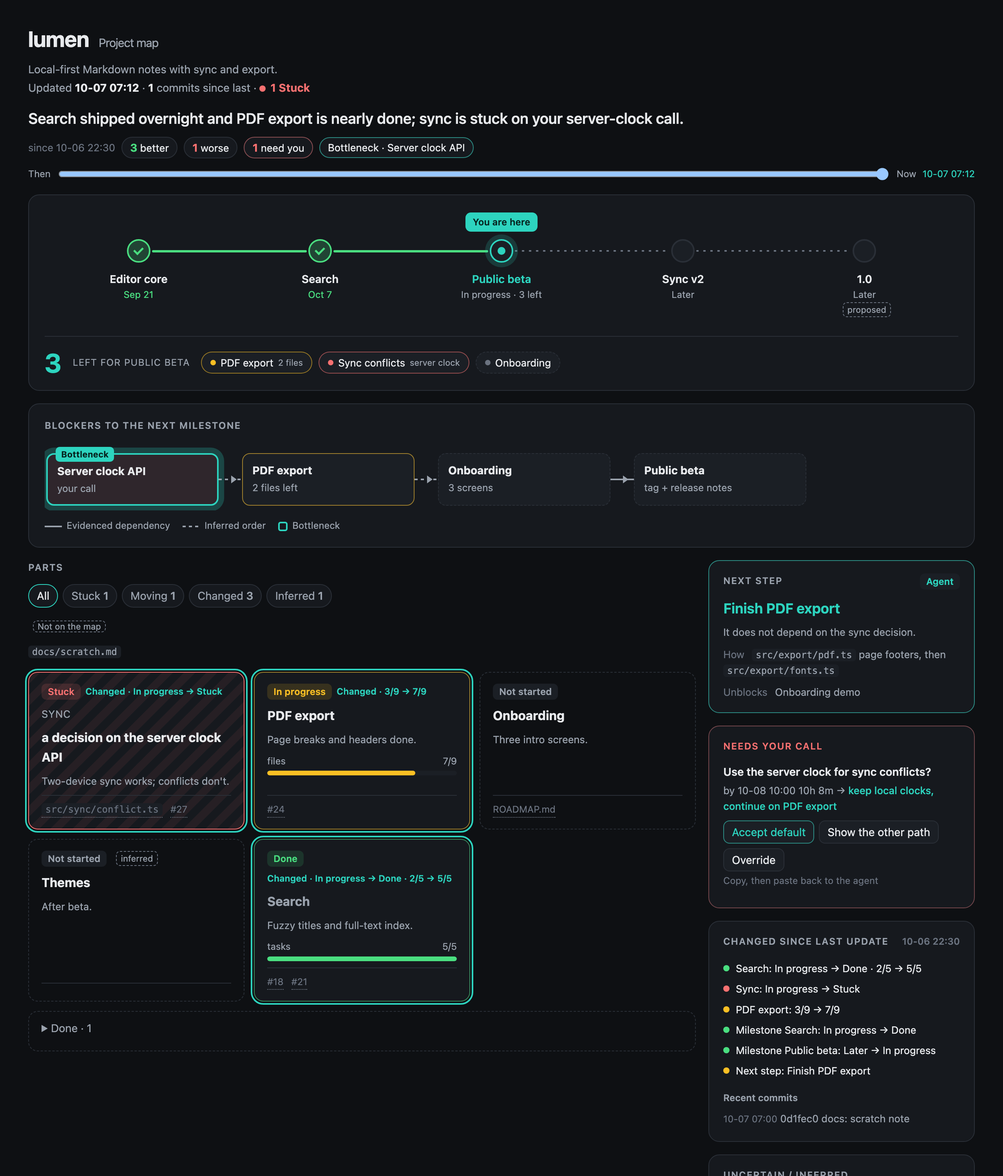
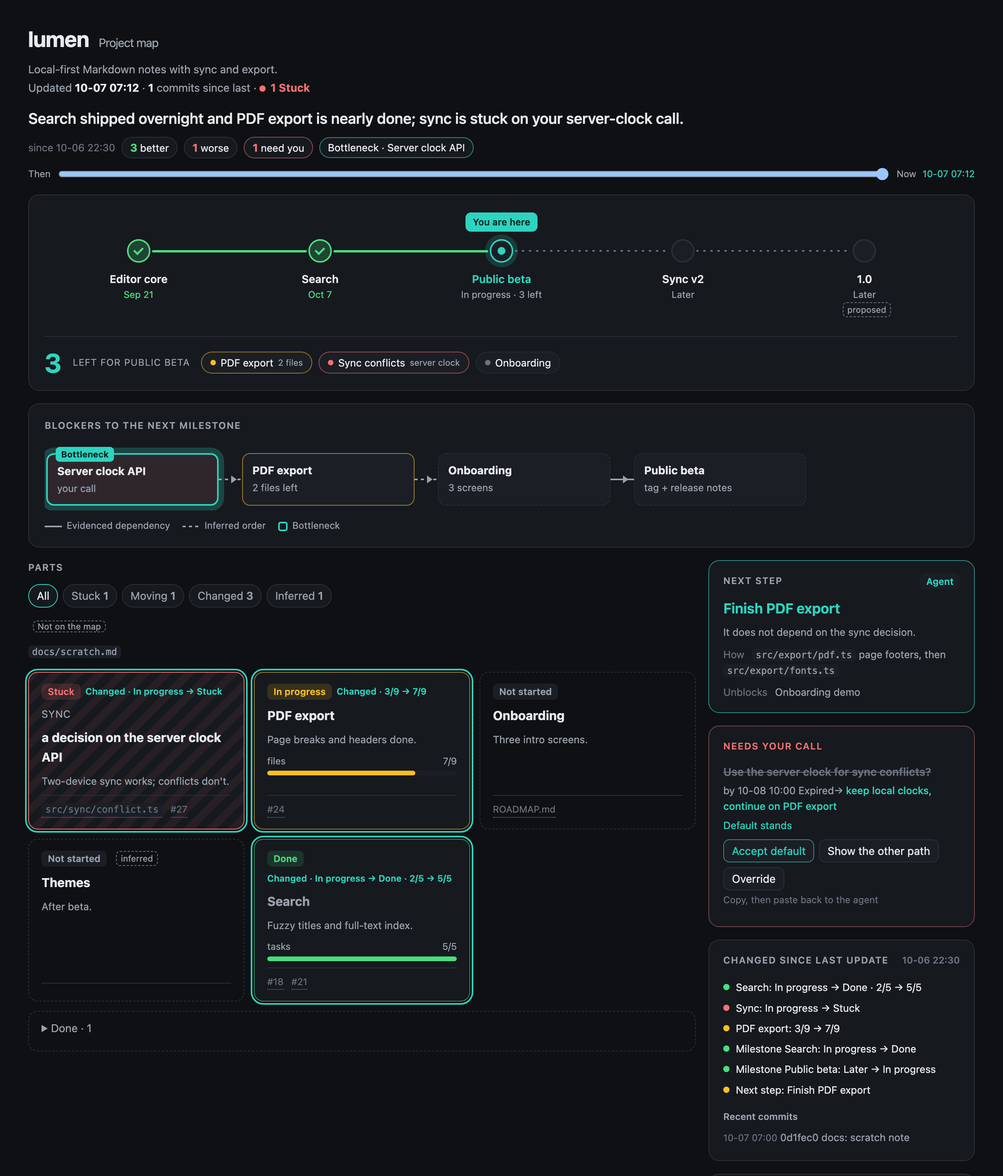
Page on phones: current milestone centered in the track, pin bar as one full-width row
Checked at 375px: no horizontal page overflow, all 38 interactive elements
reachable by keyboard, Enter lights linked parts, filters work, light
theme readable.

Changed region(s): [[0.7188, 0.651, 0.9688, 1.0]]

diff --git a/docs/demo/index.html b/docs/demo/index.html
@@ -95,6 +95,7 @@ aside .card{padding:16px 18px}
 .hl-you b{color:var(--stuck)} .hl-bn{border-color:color-mix(in srgb,var(--accent) 55%,var(--line))} .hl-since{color:var(--dim)}
 .owner{float:right;text-transform:none;letter-spacing:0;font-size:12px;padding:1px 8px;border-radius:6px;background:var(--card2)}
 .o-user{color:var(--stuck)} .o-agent{color:var(--accent)}
+.decide li.answered{opacity:.75} .decide li.answered .def{color:var(--done)}
 .open-left{font-size:13px} .open-left span{color:var(--prog);font-weight:600;margin-right:4px}
 .next .how,.next .unl{margin:8px 0 0;font-size:13px} .next .how span,.next .unl span{color:var(--dim);margin-right:6px}
 .next{border-color:color-mix(in srgb,var(--accent) 55%,var(--line))} .next .nt{font-size:18px;font-weight:650;margin:0 0 6px;color:var(--accent)}
@@ -117,6 +118,7 @@ th{color:var(--mut);font-weight:600}
 display:flex;flex-wrap:wrap;gap:6px 10px;align-items:baseline;background:var(--card);border:1px solid var(--accent);
 border-radius:999px;padding:6px 14px;font-size:13px;box-shadow:0 8px 28px color-mix(in srgb,#000 35%,transparent)}
 .pin[hidden]{display:none} .pin b{color:var(--accent)}
+.pin > * + *::before{content:"·";color:var(--dim);margin-right:10px}
 .scrub{display:flex;align-items:center;gap:8px;margin:-8px 0 16px;color:var(--mut);font-size:12px}
 .scrub input{flex:1} #scrubcap{color:var(--accent)}
 .filters{display:flex;flex-wrap:wrap;gap:6px;margin:0 0 12px}
@@ -171,11 +173,13 @@ body[data-filter=in_progress] .pill:not(.p-in_progress){display:none}
  .a-inferred span{background:repeating-linear-gradient(180deg,var(--mut) 0 4px,transparent 4px 8px)}
  .arrow::after{right:auto;bottom:0;border:5px solid transparent;border-top:7px solid var(--mut)}
  .why-pop{position:static;width:auto}
- .ms{flex-basis:112px} .pin{border-radius:14px}}
+ .ms{flex-basis:112px}
+ .pin{left:12px;right:12px;transform:none;max-width:none;flex-wrap:nowrap;overflow-x:auto;white-space:nowrap;
+   border-radius:12px;scrollbar-width:none}}
 </style>
 </head>
-<body><div class="wrap"><div class="pin" id="pin" hidden><b>You are here</b> · <span>Server clock API</span> · <span>Finish PDF export</span> · <span>1 expiring</span> · <span>1 Not on the map</span></div><header><h1>lumen<span class="sub">Project map</span></h1><p class="summary">Local-first Markdown notes with sync and export.</p><p class="meta">Updated <b>10-07 07:12</b> · <b>1</b> commits since last · <span class="stuck-dot"></span><b class="c-stuck">1 Stuck</b></p></header><section class="hero"><p class=hl-text>Search shipped overnight and PDF export is nearly done; sync is stuck on your server-clock call.</p><div class="hl-row"><span class="hl-since">since 10-06 22:30</span><span class="hl hl-better"><b>3</b> better</span><span class="hl hl-worse"><b>1</b> worse</span><span class="hl hl-you"><b>1</b> need you</span><span class="hl hl-bn">Bottleneck · Server clock API</span></div></section><div class="scrub"><span>Then</span><input type="range" id="scrub" min="0" max="1" value="1" aria-label="Changed since last update"><span>Now</span><span id="scrubcap"></span></div><section class="card track"><ol class="ms-list"><li class="ms ms-done" data-name="Editor core" data-now="done"><span class="dot"></span><span class="seg solid"></span><span class="ms-name">Editor core</span><span class="ms-note">Sep 21</span></li><li class="ms ms-done" data-name="Search" data-now="done"><span class="dot"></span><span class="seg solid"></span><span class="ms-name">Search</span><span class="ms-note">Oct 7</span></li><li class="ms ms-current" data-name="Public beta" data-now="current" id=here><span class="here">You are here</span><span class="dot"></span><span class="seg dotted"></span><span class="ms-name">Public beta</span><span class="ms-note">In progress · 3 left</span></li><li class="ms ms-future" data-name="Sync v2" data-now="future"><span class="dot"></span><span class="seg dotted"></span><span class="ms-name">Sync v2</span><span class="ms-note">Later</span></li><li class="ms ms-future" data-name="1.0" data-now="future"><span class="dot"></span><span class="ms-name">1.0</span><span class="ms-note">Later</span><span class="tag">proposed</span></li></ol><div class="left"><span class="big">3</span><span class="cap">Left for Public beta </span><div class="pills"><span class="pill p-in_progress linkable" data-link="export" role="button" tabindex="0"><i></i>PDF export<em>2 files</em></span><span class="pill p-stuck linkable" data-link="sync" role="button" tabindex="0"><i></i>Sync conflicts<em>server clock</em></span><span class="pill p-not_started linkable" data-link="onboarding" role="button" tabindex="0"><i></i>Onboarding</span></div></div></section><section class="card"><h2>Blockers to the next milestone</h2><div class="chain chain-default"><div class="node n-stuck is-bn linkable" data-link="sync" role="button" tabindex="0"><span class="bn">Bottleneck</span><b>Server clock API</b><span>your call</span></div><div class="arrow a-inferred" title="default keeps local clocks and continues PDF export"><p class="why-pop">default keeps local clocks and continues PDF export</p><span></span></div><div class="node n-in_progress linkable fork-only" data-link="export" role="button" tabindex="0"><b>PDF export</b><span>2 files left</span></div><div class="arrow a-inferred" title="onboarding demo exports a PDF"><p class="why-pop">onboarding demo exports a PDF</p><span></span></div><div class="node n-not_started linkable" data-link="onboarding" role="button" tabindex="0"><b>Onboarding</b><span>3 screens</span></div><div class="arrow a-evidence" title="ROADMAP.md: beta requires onboarding"><p class="why-pop">ROADMAP.md: beta requires onboarding</p><span></span></div><div class="node n-not_started linkable" role="button" tabindex="0"><b>Public beta</b><span>tag + release notes</span></div></div><p class="fork-label">If you override: block on the server clock first</p><div class="chain chain-alt"><div class="node n-stuck is-bn linkable fork-shared" data-link="sync" role="button" tabindex="0"><span class="bn">Bottleneck</span><b>Server clock API</b><span>your call</span></div><div class="arrow a-inferred" title="only if you choose to block on the server clock"><p class="why-pop">only if you choose to block on the server clock</p><span></span></div><div class="node n-not_started linkable fork-only" data-link="sync" role="button" tabindex="0"><b>Implement server clock</b><span>only if you block on it</span></div><div class="arrow a-evidence" title="`src/sync/conflict.ts` TODO: last-writer-wins needs a trusted server timestamp"><p class="why-pop"><code>src/sync/conflict.ts</code> TODO: last-writer-wins needs a trusted server timestamp</p><span></span></div><div class="node n-stuck linkable fork-only" data-link="sync" role="button" tabindex="0"><b>Sync conflicts</b><span>resolver waits on clock</span></div><div class="arrow a-inferred" title="onboarding waits until sync conflicts are decided"><p class="why-pop">onboarding waits until sync conflicts are decided</p><span></span></div><div class="node n-not_started linkable fork-shared" data-link="onboarding" role="button" tabindex="0"><b>Onboarding</b><span>3 screens</span></div><div class="arrow a-evidence" title="ROADMAP.md: beta requires onboarding"><p class="why-pop">ROADMAP.md: beta requires onboarding</p><span></span></div><div class="node n-not_started linkable fork-shared" role="button" tabindex="0"><b>Public beta</b><span>tag + release notes</span></div></div><div class="legend"><span><i class="lg-e"></i>Evidenced dependency</span><span><i class="lg-i"></i>Inferred order</span><span><i class="lg-b"></i>Bottleneck</span></div></section><div class="grid"><div class="main"><section><div class="sh"><h2>Parts</h2></div><div class="filters" role="toolbar"><button type="button" data-filter="all" aria-pressed="true">All</button><button type="button" data-filter="stuck" aria-pressed="false">Stuck <b>1</b></button><button type="button" data-filter="in_progress" aria-pressed="false">Moving <b>1</b></button><button type="button" data-filter="changed" aria-pressed="false">Changed <b>3</b></button><button type="button" data-filter="inferred" aria-pressed="false">Inferred <b>1</b></button></div><div class="unmap"><span class="tag">Not on the map</span><ul class="plain"><li><code>docs/scratch.md</code></li></ul></div><div class="parts"><article class="part pt-stuck changed linkable" data-link="sync" data-status="stuck" data-now="stuck" role="button" tabindex="0"><div class="ph"><span class="badge s-stuck">Stuck</span><span class="chg">Changed · In progress → Stuck</span></div><p class="eyebrow">Sync</p><h3>a decision on the server clock API</h3><p>Two-device sync works; conflicts don&#x27;t.</p><footer><button type="button" class="ev" data-kind="file" data-ref="src/sync/conflict.ts"><code>src/sync/conflict.ts</code></button><button type="button" class="ev" data-kind="issue" data-ref="27">#27</button></footer></article><article class="part pt-in_progress changed linkable" data-link="export" data-status="in_progress" data-now="in_progress" role="button" tabindex="0"><div class="ph"><span class="badge s-in_progress">In progress</span><span class="chg">Changed · 3/9 → 7/9</span></div><h3>PDF export</h3><p>Page breaks and headers done.</p><div class="prog"><div class="pl"><span>files</span><span>7/9</span></div><div class="bar"><i style="width:78%"></i></div></div><footer><button type="button" class="ev" data-kind="issue" data-ref="24">#24</button></footer></article><article class="part pt-not_started linkable" data-link="onboarding" data-status="not_started" data-now="not_started" role="button" tabindex="0"><div class="ph"><span class="badge s-not_started">Not started</span></div><h3>Onboarding</h3><p>Three intro screens.</p><footer><button type="button" class="ev" data-kind="file" data-ref="ROADMAP.md">ROADMAP.md</button></footer></article><article class="part pt-not_started linkable" data-link="themes" data-status="not_started" data-now="not_started" data-inferred role="button" tabindex="0"><div class="ph"><span class="badge s-not_started">Not started</span><span class="tag">inferred</span></div><h3>Themes</h3><p>After beta.</p><footer></footer></article><article class="part pt-done changed linkable" data-link="search" data-status="done" data-now="done" role="button" tabindex="0"><div class="ph"><span class="badge s-done">Done</span><span class="chg">Changed · In progress → Done · 2/5 → 5/5</span></div><h3>Search</h3><p>Fuzzy titles and full-text index.</p><div class="prog"><div class="pl"><span>tasks</span><span>5/5</span></div><div class="bar"><i style="width:100%"></i></div></div><footer><button type="button" class="ev" data-kind="issue" data-ref="18">#18</button><button type="button" class="ev" data-kind="issue" data-ref="21">#21</button></footer></article></div><details class="done-row"><summary>Done · 1</summary><div class="done-names"><button type="button" class="done-name" data-open="editor">Editor</button></div><div class="parts"><article class="part pt-done linkable" data-link="editor" data-status="done" data-now="done" role="button" tabindex="0"><div class="ph"><span class="badge s-done">Done</span></div><h3>Editor</h3><p>Markdown editing, tables, live preview.</p><footer><button type="button" class="ev" data-kind="file" data-ref="src/editor/"><code>src/editor/</code></button><button type="button" class="ev" data-kind="issue" data-ref="12">#12</button></footer></article></div></details></section></div><aside><section class="card next"><h2>Next step<span class="owner o-agent">Agent</span></h2><p class="nt">Finish PDF export</p><p>It does not depend on the sync decision.</p><p class="how"><span>How</span> <code>src/export/pdf.ts</code> page footers, then <code>src/export/fonts.ts</code></p><p class="unl"><span>Unblocks</span> Onboarding demo</p></section><section class="card decide"><h2>Needs your call</h2><ul><li data-decision="clock"><p class="q">Use the server clock for sync conflicts?</p><p class="d">by <time data-deadline="2026-10-08T10:00:00+08:00">10-08 10:00</time> <span class="count"></span>→ <b class="def">keep local clocks, continue on PDF export</b></p><p class="taken">Default stands</p><div class="acts"><button type="button" class="act accept" data-copy="Decision: keep local clocks, continue on PDF export&#10;Question: Use the server clock for sync conflicts?">Accept default</button><button type="button" class="act altpath" data-fork="clock" data-option="1" data-show="Show the other path" data-hide="Hide the other path">Show the other path</button><button type="button" class="act override">Override</button><span class="copied">Copied</span></div><form class="override-form" hidden><input type="text" maxlength="240" aria-label="Override"><button type="submit">Copy</button></form><p class="hint">Copy, then paste back to the agent</p></li></ul></section><section class="card changes"><h2>Changed since last update<span class="since">10-06 22:30</span></h2><ul><li class="linkable" data-link="search" role="button" tabindex="0"><i class="dot-done"></i>Search: In progress → Done · 2/5 → 5/5</li><li class="linkable" data-link="sync" role="button" tabindex="0"><i class="dot-stuck"></i>Sync: In progress → Stuck</li><li class="linkable" data-link="export" role="button" tabindex="0"><i class="dot-in_progress"></i>PDF export: 3/9 → 7/9</li><li class=""><i class="dot-done"></i>Milestone Search: In progress → Done</li><li class=""><i class="dot-done"></i>Milestone Public beta: Later → In progress</li><li class=""><i class="dot-in_progress"></i>Next step: Finish PDF export</li></ul><h3>Recent commits</h3><ul class="commits"><li><span class="t">10-07 07:00</span> 0d1fec0 docs: scratch note</li></ul></section><section class="card"><h2>Uncertain / inferred</h2><ul class="plain"><li>PDF export tested on A4 only.</li></ul></section></aside></div><section class="details"><h2>Details</h2><details><summary><b>Open issues</b><span></span></summary><ul class="plain"><li>#27 sync conflict on simultaneous edits</li><li>#29 PDF footer overlaps</li></ul></details></section><footer class="foot"><p>Sources：README, ROADMAP.md, git log</p></footer><div id="peek" hidden role="dialog"><p id="peek-text"></p><a id="peek-link" target="_blank" rel="noopener" hidden></a></div></div>
-<script type="application/json" id="yah">{"slug": null, "web": null, "peek": {"issues": {}, "commits": {"0d1fec0": "docs: scratch note"}, "prs": {}, "files": {"docs/scratch.md": "docs: scratch note"}}, "frames": [{"t": "2026-10-06T22:30:00+08:00", "label": "10-06 22:30", "parts": {"editor": {"status": "done", "done": null, "total": null}, "search": {"status": "in_progress", "done": 2, "total": 5}, "sync": {"status": "in_progress", "done": null, "total": null}, "export": {"status": "in_progress", "done": 3, "total": 9}, "onboarding": {"status": "not_started", "done": null, "total": null}, "themes": {"status": "not_started", "done": null, "total": null}}, "milestones": [{"name": "Editor core", "status": "done"}, {"name": "Search", "status": "current"}, {"name": "Public beta", "status": "future"}, {"name": "Sync v2", "status": "future"}, {"name": "1.0", "status": "future"}], "changes": []}, {"t": "2026-10-07T07:12:00+08:00", "label": "10-07 07:12", "parts": {"editor": {"status": "done", "done": null, "total": null}, "search": {"status": "done", "done": 5, "total": 5}, "sync": {"status": "stuck", "done": null, "total": null}, "export": {"status": "in_progress", "done": 7, "total": 9}, "onboarding": {"status": "not_started", "done": null, "total": null}, "themes": {"status": "not_started", "done": null, "total": null}}, "milestones": [{"name": "Editor core", "status": "done"}, {"name": "Search", "status": "done"}, {"name": "Public beta", "status": "current"}, {"name": "Sync v2", "status": "future"}, {"name": "1.0", "status": "future"}], "changes": ["Search: In progress → Done · 2/5 → 5/5", "Sync: In progress → Stuck", "PDF export: 3/9 → 7/9", "Milestone Search: In progress → Done", "Milestone Public beta: Later → In progress", "Next step: Finish PDF export"]}], "labels": {"expired": "Expired", "open": "Open on GitHub"}}</script>
+<body><div class="wrap"><div class="pin" id="pin" hidden><b>You are here</b><span>Server clock API</span><span>Finish PDF export</span><span>1 expiring</span><span>1 Not on the map</span></div><header><h1>lumen<span class="sub">Project map</span></h1><p class="summary">Local-first Markdown notes with sync and export.</p><p class="meta">Updated <b>10-07 07:12</b> · <b>1</b> commits since last · <span class="stuck-dot"></span><b class="c-stuck">1 Stuck</b></p></header><section class="hero"><p class=hl-text>Search shipped overnight and PDF export is nearly done; sync is stuck on your server-clock call.</p><div class="hl-row"><span class="hl-since">since 10-06 22:30</span><span class="hl hl-better"><b>3</b> better</span><span class="hl hl-worse"><b>1</b> worse</span><span class="hl hl-you"><b>1</b> need you</span><span class="hl hl-bn">Bottleneck · Server clock API</span></div></section><div class="scrub"><span>Then</span><input type="range" id="scrub" min="0" max="1" value="1" aria-label="Changed since last update"><span>Now</span><span id="scrubcap"></span></div><section class="card track"><ol class="ms-list"><li class="ms ms-done" data-name="Editor core" data-now="done"><span class="dot"></span><span class="seg solid"></span><span class="ms-name">Editor core</span><span class="ms-note">Sep 21</span></li><li class="ms ms-done" data-name="Search" data-now="done"><span class="dot"></span><span class="seg solid"></span><span class="ms-name">Search</span><span class="ms-note">Oct 7</span></li><li class="ms ms-current" data-name="Public beta" data-now="current" id=here><span class="here">You are here</span><span class="dot"></span><span class="seg dotted"></span><span class="ms-name">Public beta</span><span class="ms-note">In progress · 3 left</span></li><li class="ms ms-future" data-name="Sync v2" data-now="future"><span class="dot"></span><span class="seg dotted"></span><span class="ms-name">Sync v2</span><span class="ms-note">Later</span></li><li class="ms ms-future" data-name="1.0" data-now="future"><span class="dot"></span><span class="ms-name">1.0</span><span class="ms-note">Later</span><span class="tag">proposed</span></li></ol><div class="left"><span class="big">3</span><span class="cap">Left for Public beta </span><div class="pills"><span class="pill p-in_progress linkable" data-link="export" role="button" tabindex="0"><i></i>PDF export<em>2 files</em></span><span class="pill p-stuck linkable" data-link="sync" role="button" tabindex="0"><i></i>Sync conflicts<em>server clock</em></span><span class="pill p-not_started linkable" data-link="onboarding" role="button" tabindex="0"><i></i>Onboarding</span></div></div></section><section class="card"><h2>Blockers to the next milestone</h2><div class="chain chain-default"><div class="node n-stuck is-bn linkable" data-link="sync" role="button" tabindex="0"><span class="bn">Bottleneck</span><b>Server clock API</b><span>your call</span></div><div class="arrow a-inferred" title="default keeps local clocks and continues PDF export"><p class="why-pop">default keeps local clocks and continues PDF export</p><span></span></div><div class="node n-in_progress linkable fork-only" data-link="export" role="button" tabindex="0"><b>PDF export</b><span>2 files left</span></div><div class="arrow a-inferred" title="onboarding demo exports a PDF"><p class="why-pop">onboarding demo exports a PDF</p><span></span></div><div class="node n-not_started linkable" data-link="onboarding" role="button" tabindex="0"><b>Onboarding</b><span>3 screens</span></div><div class="arrow a-evidence" title="ROADMAP.md: beta requires onboarding"><p class="why-pop">ROADMAP.md: beta requires onboarding</p><span></span></div><div class="node n-not_started linkable" role="button" tabindex="0"><b>Public beta</b><span>tag + release notes</span></div></div><p class="fork-label">If you override: block on the server clock first</p><div class="chain chain-alt"><div class="node n-stuck is-bn linkable fork-shared" data-link="sync" role="button" tabindex="0"><span class="bn">Bottleneck</span><b>Server clock API</b><span>your call</span></div><div class="arrow a-inferred" title="only if you choose to block on the server clock"><p class="why-pop">only if you choose to block on the server clock</p><span></span></div><div class="node n-not_started linkable fork-only" data-link="sync" role="button" tabindex="0"><b>Implement server clock</b><span>only if you block on it</span></div><div class="arrow a-evidence" title="`src/sync/conflict.ts` TODO: last-writer-wins needs a trusted server timestamp"><p class="why-pop"><code>src/sync/conflict.ts</code> TODO: last-writer-wins needs a trusted server timestamp</p><span></span></div><div class="node n-stuck linkable fork-only" data-link="sync" role="button" tabindex="0"><b>Sync conflicts</b><span>resolver waits on clock</span></div><div class="arrow a-inferred" title="onboarding waits until sync conflicts are decided"><p class="why-pop">onboarding waits until sync conflicts are decided</p><span></span></div><div class="node n-not_started linkable fork-shared" data-link="onboarding" role="button" tabindex="0"><b>Onboarding</b><span>3 screens</span></div><div class="arrow a-evidence" title="ROADMAP.md: beta requires onboarding"><p class="why-pop">ROADMAP.md: beta requires onboarding</p><span></span></div><div class="node n-not_started linkable fork-shared" role="button" tabindex="0"><b>Public beta</b><span>tag + release notes</span></div></div><div class="legend"><span><i class="lg-e"></i>Evidenced dependency</span><span><i class="lg-i"></i>Inferred order</span><span><i class="lg-b"></i>Bottleneck</span></div></section><div class="grid"><div class="main"><section><div class="sh"><h2>Parts</h2></div><div class="filters" role="toolbar"><button type="button" data-filter="all" aria-pressed="true">All</button><button type="button" data-filter="stuck" aria-pressed="false">Stuck <b>1</b></button><button type="button" data-filter="in_progress" aria-pressed="false">Moving <b>1</b></button><button type="button" data-filter="changed" aria-pressed="false">Changed <b>3</b></button><button type="button" data-filter="inferred" aria-pressed="false">Inferred <b>1</b></button></div><div class="unmap"><span class="tag">Not on the map</span><ul class="plain"><li><code>docs/scratch.md</code></li></ul></div><div class="parts"><article class="part pt-stuck changed linkable" data-link="sync" data-status="stuck" data-now="stuck" role="button" tabindex="0"><div class="ph"><span class="badge s-stuck">Stuck</span><span class="chg">Changed · In progress → Stuck</span></div><p class="eyebrow">Sync</p><h3>a decision on the server clock API</h3><p>Two-device sync works; conflicts don&#x27;t.</p><footer><button type="button" class="ev" data-kind="file" data-ref="src/sync/conflict.ts"><code>src/sync/conflict.ts</code></button><button type="button" class="ev" data-kind="issue" data-ref="27">#27</button></footer></article><article class="part pt-in_progress changed linkable" data-link="export" data-status="in_progress" data-now="in_progress" role="button" tabindex="0"><div class="ph"><span class="badge s-in_progress">In progress</span><span class="chg">Changed · 3/9 → 7/9</span></div><h3>PDF export</h3><p>Page breaks and headers done.</p><div class="prog"><div class="pl"><span>files</span><span>7/9</span></div><div class="bar"><i style="width:78%"></i></div></div><footer><button type="button" class="ev" data-kind="issue" data-ref="24">#24</button></footer></article><article class="part pt-not_started linkable" data-link="onboarding" data-status="not_started" data-now="not_started" role="button" tabindex="0"><div class="ph"><span class="badge s-not_started">Not started</span></div><h3>Onboarding</h3><p>Three intro screens.</p><footer><button type="button" class="ev" data-kind="file" data-ref="ROADMAP.md">ROADMAP.md</button></footer></article><article class="part pt-not_started linkable" data-link="themes" data-status="not_started" data-now="not_started" data-inferred role="button" tabindex="0"><div class="ph"><span class="badge s-not_started">Not started</span><span class="tag">inferred</span></div><h3>Themes</h3><p>After beta.</p><footer></footer></article><article class="part pt-done changed linkable" data-link="search" data-status="done" data-now="done" role="button" tabindex="0"><div class="ph"><span class="badge s-done">Done</span><span class="chg">Changed · In progress → Done · 2/5 → 5/5</span></div><h3>Search</h3><p>Fuzzy titles and full-text index.</p><div class="prog"><div class="pl"><span>tasks</span><span>5/5</span></div><div class="bar"><i style="width:100%"></i></div></div><footer><button type="button" class="ev" data-kind="issue" data-ref="18">#18</button><button type="button" class="ev" data-kind="issue" data-ref="21">#21</button></footer></article></div><details class="done-row"><summary>Done · 1</summary><div class="done-names"><button type="button" class="done-name" data-open="editor">Editor</button></div><div class="parts"><article class="part pt-done linkable" data-link="editor" data-status="done" data-now="done" role="button" tabindex="0"><div class="ph"><span class="badge s-done">Done</span></div><h3>Editor</h3><p>Markdown editing, tables, live preview.</p><footer><button type="button" class="ev" data-kind="file" data-ref="src/editor/"><code>src/editor/</code></button><button type="button" class="ev" data-kind="issue" data-ref="12">#12</button></footer></article></div></details></section></div><aside><section class="card next"><h2>Next step<span class="owner o-agent">Agent</span></h2><p class="nt">Finish PDF export</p><p>It does not depend on the sync decision.</p><p class="how"><span>How</span> <code>src/export/pdf.ts</code> page footers, then <code>src/export/fonts.ts</code></p><p class="unl"><span>Unblocks</span> Onboarding demo</p></section><section class="card decide"><h2>Needs your call</h2><ul><li data-decision="clock"><p class="q">Use the server clock for sync conflicts?</p><p class="d">by <time data-deadline="2026-10-08T10:00:00+08:00">10-08 10:00</time> <span class="count"></span>→ <b class="def">keep local clocks, continue on PDF export</b></p><p class="taken">Default stands</p><div class="acts"><button type="button" class="act accept" data-copy="you-are-here decision&#10;Question: Use the server clock for sync conflicts?&#10;Answer: keep local clocks, continue on PDF export&#10;Record it and act on it: python3 /Users/lifcc/Desktop/code/AI/tools/you-are-here/plugins/you-are-here/skills/you-are-here/scripts/pmap.py answer /private/var/folders/3_/987z6jz91l9_t8mpvflf73xm0000gp/T/tmpcg7p2scp/lumen --id clock --answer &quot;keep local clocks, continue on PDF export&quot;">Accept default</button><button type="button" class="act altpath" data-fork="clock" data-option="1" data-show="Show the other path" data-hide="Hide the other path">Show the other path</button><button type="button" class="act override">Override</button><span class="copied">Copied</span></div><form class="override-form" hidden><input type="text" maxlength="240" aria-label="Override"><button type="submit">Copy</button></form><p class="hint">Copy, then paste back to the agent</p></li></ul></section><section class="card changes"><h2>Changed since last update<span class="since">10-06 22:30</span></h2><ul><li class="linkable" data-link="search" role="button" tabindex="0"><i class="dot-done"></i>Search: In progress → Done · 2/5 → 5/5</li><li class="linkable" data-link="sync" role="button" tabindex="0"><i class="dot-stuck"></i>Sync: In progress → Stuck</li><li class="linkable" data-link="export" role="button" tabindex="0"><i class="dot-in_progress"></i>PDF export: 3/9 → 7/9</li><li class=""><i class="dot-done"></i>Milestone Search: In progress → Done</li><li class=""><i class="dot-done"></i>Milestone Public beta: Later → In progress</li><li class=""><i class="dot-in_progress"></i>Next step: Finish PDF export</li></ul><h3>Recent commits</h3><ul class="commits"><li><span class="t">10-07 07:00</span> 0d1fec0 docs: scratch note</li></ul></section><section class="card"><h2>Uncertain / inferred</h2><ul class="plain"><li>PDF export tested on A4 only.</li></ul></section></aside></div><section class="details"><h2>Details</h2><details><summary><b>Open issues</b><span></span></summary><ul class="plain"><li>#27 sync conflict on simultaneous edits</li><li>#29 PDF footer overlaps</li></ul></details></section><footer class="foot"><p>Sources：README, ROADMAP.md, git log</p></footer><div id="peek" hidden role="dialog"><p id="peek-text"></p><a id="peek-link" target="_blank" rel="noopener" hidden></a></div></div>
+<script type="application/json" id="yah">{"slug": null, "web": null, "answer_tpl": "you-are-here decision\nQuestion: {Q}\nAnswer: {A}\nRecord it and act on it: python3 /Users/lifcc/Desktop/code/AI/tools/you-are-here/plugins/you-are-here/skills/you-are-here/scripts/pmap.py answer /private/var/folders/3_/987z6jz91l9_t8mpvflf73xm0000gp/T/tmpcg7p2scp/lumen --id {ID} --answer \"{A}\"", "peek": {"issues": {}, "commits": {"0d1fec0": "docs: scratch note"}, "prs": {}, "files": {"docs/scratch.md": "docs: scratch note"}}, "frames": [{"t": "2026-10-06T22:30:00+08:00", "label": "10-06 22:30", "parts": {"editor": {"status": "done", "done": null, "total": null}, "search": {"status": "in_progress", "done": 2, "total": 5}, "sync": {"status": "in_progress", "done": null, "total": null}, "export": {"status": "in_progress", "done": 3, "total": 9}, "onboarding": {"status": "not_started", "done": null, "total": null}, "themes": {"status": "not_started", "done": null, "total": null}}, "milestones": [{"name": "Editor core", "status": "done"}, {"name": "Search", "status": "current"}, {"name": "Public beta", "status": "future"}, {"name": "Sync v2", "status": "future"}, {"name": "1.0", "status": "future"}], "changes": []}, {"t": "2026-10-07T07:12:00+08:00", "label": "10-07 07:12", "parts": {"editor": {"status": "done", "done": null, "total": null}, "search": {"status": "done", "done": 5, "total": 5}, "sync": {"status": "stuck", "done": null, "total": null}, "export": {"status": "in_progress", "done": 7, "total": 9}, "onboarding": {"status": "not_started", "done": null, "total": null}, "themes": {"status": "not_started", "done": null, "total": null}}, "milestones": [{"name": "Editor core", "status": "done"}, {"name": "Search", "status": "done"}, {"name": "Public beta", "status": "current"}, {"name": "Sync v2", "status": "future"}, {"name": "1.0", "status": "future"}], "changes": ["Search: In progress → Done · 2/5 → 5/5", "Sync: In progress → Stuck", "PDF export: 3/9 → 7/9", "Milestone Search: In progress → Done", "Milestone Public beta: Later → In progress", "Next step: Finish PDF export"]}], "labels": {"expired": "Expired", "open": "Open on GitHub"}}</script>
 <script>
 (function () {
   var raw = document.getElementById("yah");
@@ -188,7 +192,9 @@ body[data-filter=in_progress] .pill:not(.p-in_progress){display:none}
 
   var here = document.getElementById("here");
   if (here && here.parentElement && here.parentElement.scrollWidth > here.parentElement.clientWidth) {
-    here.parentElement.scrollLeft = here.offsetLeft - here.parentElement.clientWidth / 2 + 60;
+    var list = here.parentElement, lr = list.getBoundingClientRect(), hr = here.getBoundingClientRect();
+    var target = hr.left - lr.left + list.scrollLeft - (list.clientWidth - hr.width) / 2;
+    list.scrollLeft = Math.max(0, Math.min(target, list.scrollWidth - list.clientWidth));
   }
 
   var pin = document.getElementById("pin");
@@ -448,7 +454,9 @@ body[data-filter=in_progress] .pill:not(.p-in_progress){display:none}
     if (!text) return;
     var li = form.closest("li");
     var q = li ? (li.querySelector(".q").textContent || "") : "";
-    copyText("Decision: " + text + "\nQuestion: " + q, li);
+    var id = li ? li.getAttribute("data-decision") : "";
+    var tpl = DATA.answer_tpl || "Question: {Q}\nAnswer: {A}";
+    copyText(tpl.split("{Q}").join(q).split("{A}").join(text.replace(/"/g, "'")).split("{ID}").join(id), li);
   });
 
   document.body.addEventListener("keydown", function (ev) {

diff --git a/plugins/you-are-here/skills/you-are-here/scripts/pmap.py b/plugins/you-are-here/skills/you-are-here/scripts/pmap.py
@@ -1614,7 +1614,7 @@ def render_html(m, facts, marks, change_lines, style, prev_time, frames=None):
         pin_bits.append(f'<span>{expiring} {html.escape(L["expiring"])}</span>')
     if stray:
         pin_bits.append(f'<span>{len(stray)} {html.escape(L["unmapped"])}</span>')
-    pin = f'<div class="pin" id="pin" hidden>{" · ".join(pin_bits)}</div>'
+    pin = f'<div class="pin" id="pin" hidden>{"".join(pin_bits)}</div>'
     use_frames = frames if frames else [frame_from(m)]
     scrub = ""
     if len(use_frames) >= 2:
@@ -1763,6 +1763,7 @@ th{{color:var(--mut);font-weight:600}}
 display:flex;flex-wrap:wrap;gap:6px 10px;align-items:baseline;background:var(--card);border:1px solid var(--accent);
 border-radius:999px;padding:6px 14px;font-size:13px;box-shadow:0 8px 28px color-mix(in srgb,#000 35%,transparent)}}
 .pin[hidden]{{display:none}} .pin b{{color:var(--accent)}}
+.pin > * + *::before{{content:"·";color:var(--dim);margin-right:10px}}
 .scrub{{display:flex;align-items:center;gap:8px;margin:-8px 0 16px;color:var(--mut);font-size:12px}}
 .scrub input{{flex:1}} #scrubcap{{color:var(--accent)}}
 .filters{{display:flex;flex-wrap:wrap;gap:6px;margin:0 0 12px}}
@@ -1817,7 +1818,9 @@ body[data-filter=in_progress] .pill:not(.p-in_progress){{display:none}}
  .a-inferred span{{background:repeating-linear-gradient(180deg,var(--mut) 0 4px,transparent 4px 8px)}}
  .arrow::after{{right:auto;bottom:0;border:5px solid transparent;border-top:7px solid var(--mut)}}
  .why-pop{{position:static;width:auto}}
- .ms{{flex-basis:112px}} .pin{{border-radius:14px}}}}
+ .ms{{flex-basis:112px}}
+ .pin{{left:12px;right:12px;transform:none;max-width:none;flex-wrap:nowrap;overflow-x:auto;white-space:nowrap;
+   border-radius:12px;scrollbar-width:none}}}}
 </style>
 </head>
 <body><div class="wrap">{body}</div>
@@ -1839,7 +1842,9 @@ SCRIPT = r"""
 
   var here = document.getElementById("here");
   if (here && here.parentElement && here.parentElement.scrollWidth > here.parentElement.clientWidth) {
-    here.parentElement.scrollLeft = here.offsetLeft - here.parentElement.clientWidth / 2 + 60;
+    var list = here.parentElement, lr = list.getBoundingClientRect(), hr = here.getBoundingClientRect();
+    var target = hr.left - lr.left + list.scrollLeft - (list.clientWidth - hr.width) / 2;
+    list.scrollLeft = Math.max(0, Math.min(target, list.scrollWidth - list.clientWidth));
   }
 
   var pin = document.getElementById("pin");
